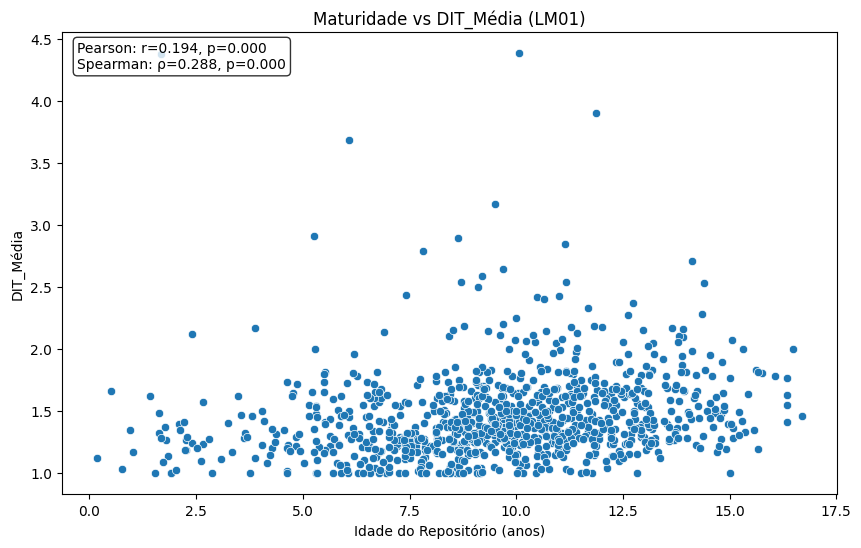
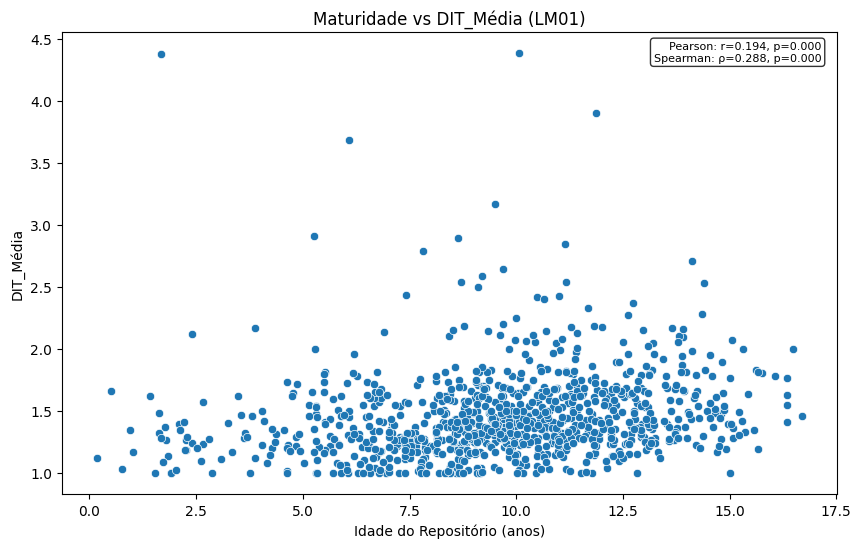
fix subtitle

Changed region(s): [[0.0906, 0.062, 0.3624, 0.1551], [0.7549, 0.062, 0.9663, 0.1241]]

diff --git a/code/utils/charts.py b/code/utils/charts.py
@@ -32,11 +32,12 @@ def grafico_popularidade_qualidade(df):
             
             # Adiciona caixa de texto com correlações no gráfico
             correlation_text = f'Pearson: r={pearson_r:.3f}, p={pearson_p:.3f}\nSpearman: ρ={spearman_r:.3f}, p={spearman_p:.3f}'
-            plt.text(0.02, 0.98, correlation_text, 
+            plt.text(0.98, 0.98, correlation_text, 
                     transform=plt.gca().transAxes, 
                     verticalalignment='top',
+                    horizontalalignment='right',
                     bbox=dict(boxstyle='round', facecolor='white', alpha=0.8),
-                    fontsize=10)
+                    fontsize=8)
             
             salvar_grafico(f'RQ01.popularidade_{metric.lower()}')
         else:
@@ -62,11 +63,12 @@ def grafico_maturidade_qualidade(df):
             
             # Adiciona caixa de texto com correlações no gráfico
             correlation_text = f'Pearson: r={pearson_r:.3f}, p={pearson_p:.3f}\nSpearman: ρ={spearman_r:.3f}, p={spearman_p:.3f}'
-            plt.text(0.02, 0.98, correlation_text, 
+            plt.text(0.98, 0.98, correlation_text, 
                     transform=plt.gca().transAxes, 
                     verticalalignment='top',
+                    horizontalalignment='right',
                     bbox=dict(boxstyle='round', facecolor='white', alpha=0.8),
-                    fontsize=10)
+                    fontsize=8)
             
             salvar_grafico(f'RQ02.maturidade_{metric.lower()}')
         else:
@@ -92,11 +94,12 @@ def grafico_atividade_qualidade(df):
             
             # Adiciona caixa de texto com correlações no gráfico
             correlation_text = f'Pearson: r={pearson_r:.3f}, p={pearson_p:.3f}\nSpearman: ρ={spearman_r:.3f}, p={spearman_p:.3f}'
-            plt.text(0.02, 0.98, correlation_text, 
+            plt.text(0.98, 0.98, correlation_text, 
                     transform=plt.gca().transAxes, 
                     verticalalignment='top',
+                    horizontalalignment='right',
                     bbox=dict(boxstyle='round', facecolor='white', alpha=0.8),
-                    fontsize=10)
+                    fontsize=8)
             
             salvar_grafico(f'RQ03.atividade_{metric.lower()}')
         else:
@@ -122,11 +125,12 @@ def grafico_tamanho_qualidade(df):
             
             # Adiciona caixa de texto com correlações no gráfico
             correlation_text = f'Pearson: r={pearson_r:.3f}, p={pearson_p:.3f}\nSpearman: ρ={spearman_r:.3f}, p={spearman_p:.3f}'
-            plt.text(0.02, 0.98, correlation_text, 
+            plt.text(0.98, 0.98, correlation_text, 
                     transform=plt.gca().transAxes, 
                     verticalalignment='top',
+                    horizontalalignment='right',
                     bbox=dict(boxstyle='round', facecolor='white', alpha=0.8),
-                    fontsize=10)
+                    fontsize=8)
             
             salvar_grafico(f'RQ04.tamanho_loc_{metric.lower()}')
         else:
@@ -146,11 +150,12 @@ def grafico_tamanho_qualidade(df):
         
         # Adiciona caixa de texto com correlações no gráfico
         correlation_text = f'Pearson: r={pearson_r:.3f}, p={pearson_p:.3f}\nSpearman: ρ={spearman_r:.3f}, p={spearman_p:.3f}'
-        plt.text(0.02, 0.98, correlation_text, 
-                transform=plt.gca().transAxes, 
-                verticalalignment='top',
-                bbox=dict(boxstyle='round', facecolor='white', alpha=0.8),
-                fontsize=10)
+        plt.text(0.98, 0.98, correlation_text, 
+                    transform=plt.gca().transAxes, 
+                    verticalalignment='top',
+                    horizontalalignment='right',
+                    bbox=dict(boxstyle='round', facecolor='white', alpha=0.8),
+                    fontsize=8)
         
         salvar_grafico('RQ04.tamanho_loc_comentloc')
 
@@ -168,11 +173,12 @@ def grafico_tamanho_qualidade(df):
         
         # Adiciona caixa de texto com correlações no gráfico
         correlation_text = f'Pearson: r={pearson_r:.3f}, p={pearson_p:.3f}\nSpearman: ρ={spearman_r:.3f}, p={spearman_p:.3f}'
-        plt.text(0.02, 0.98, correlation_text, 
-                transform=plt.gca().transAxes, 
-                verticalalignment='top',
-                bbox=dict(boxstyle='round', facecolor='white', alpha=0.8),
-                fontsize=10)
+        plt.text(0.98, 0.98, correlation_text, 
+                    transform=plt.gca().transAxes, 
+                    verticalalignment='top',
+                    horizontalalignment='right',
+                    bbox=dict(boxstyle='round', facecolor='white', alpha=0.8),
+                    fontsize=8)
         
         salvar_grafico('RQ04.tamanho_loc_comentclasse')
 
